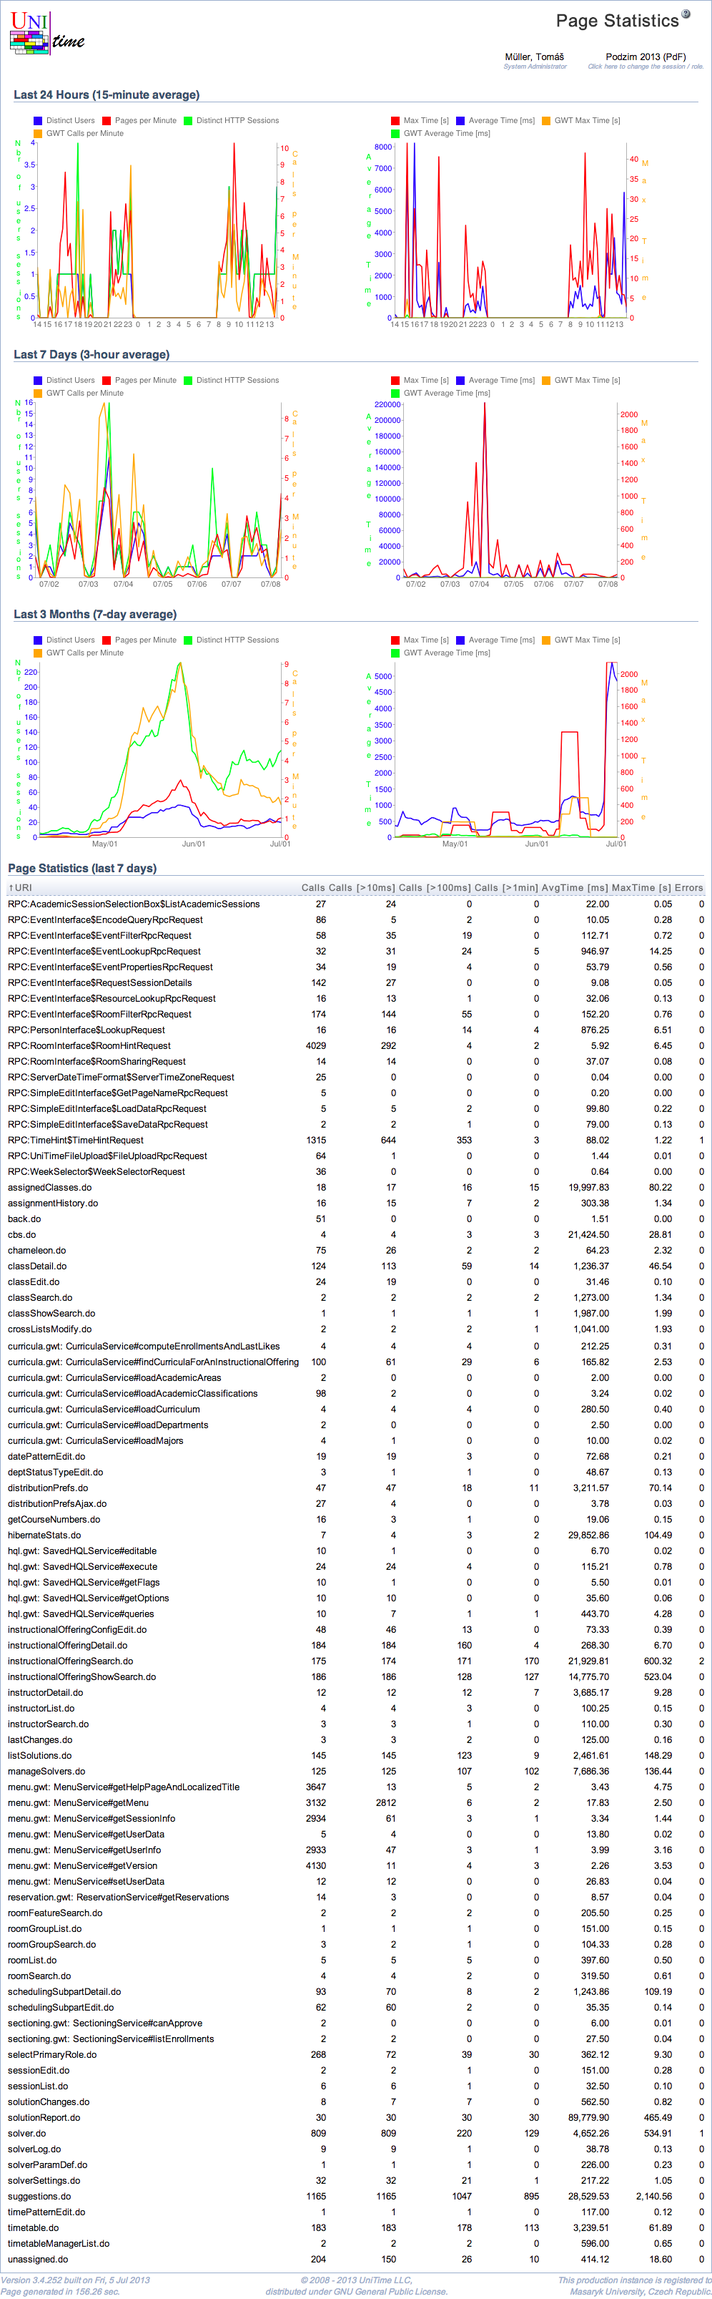
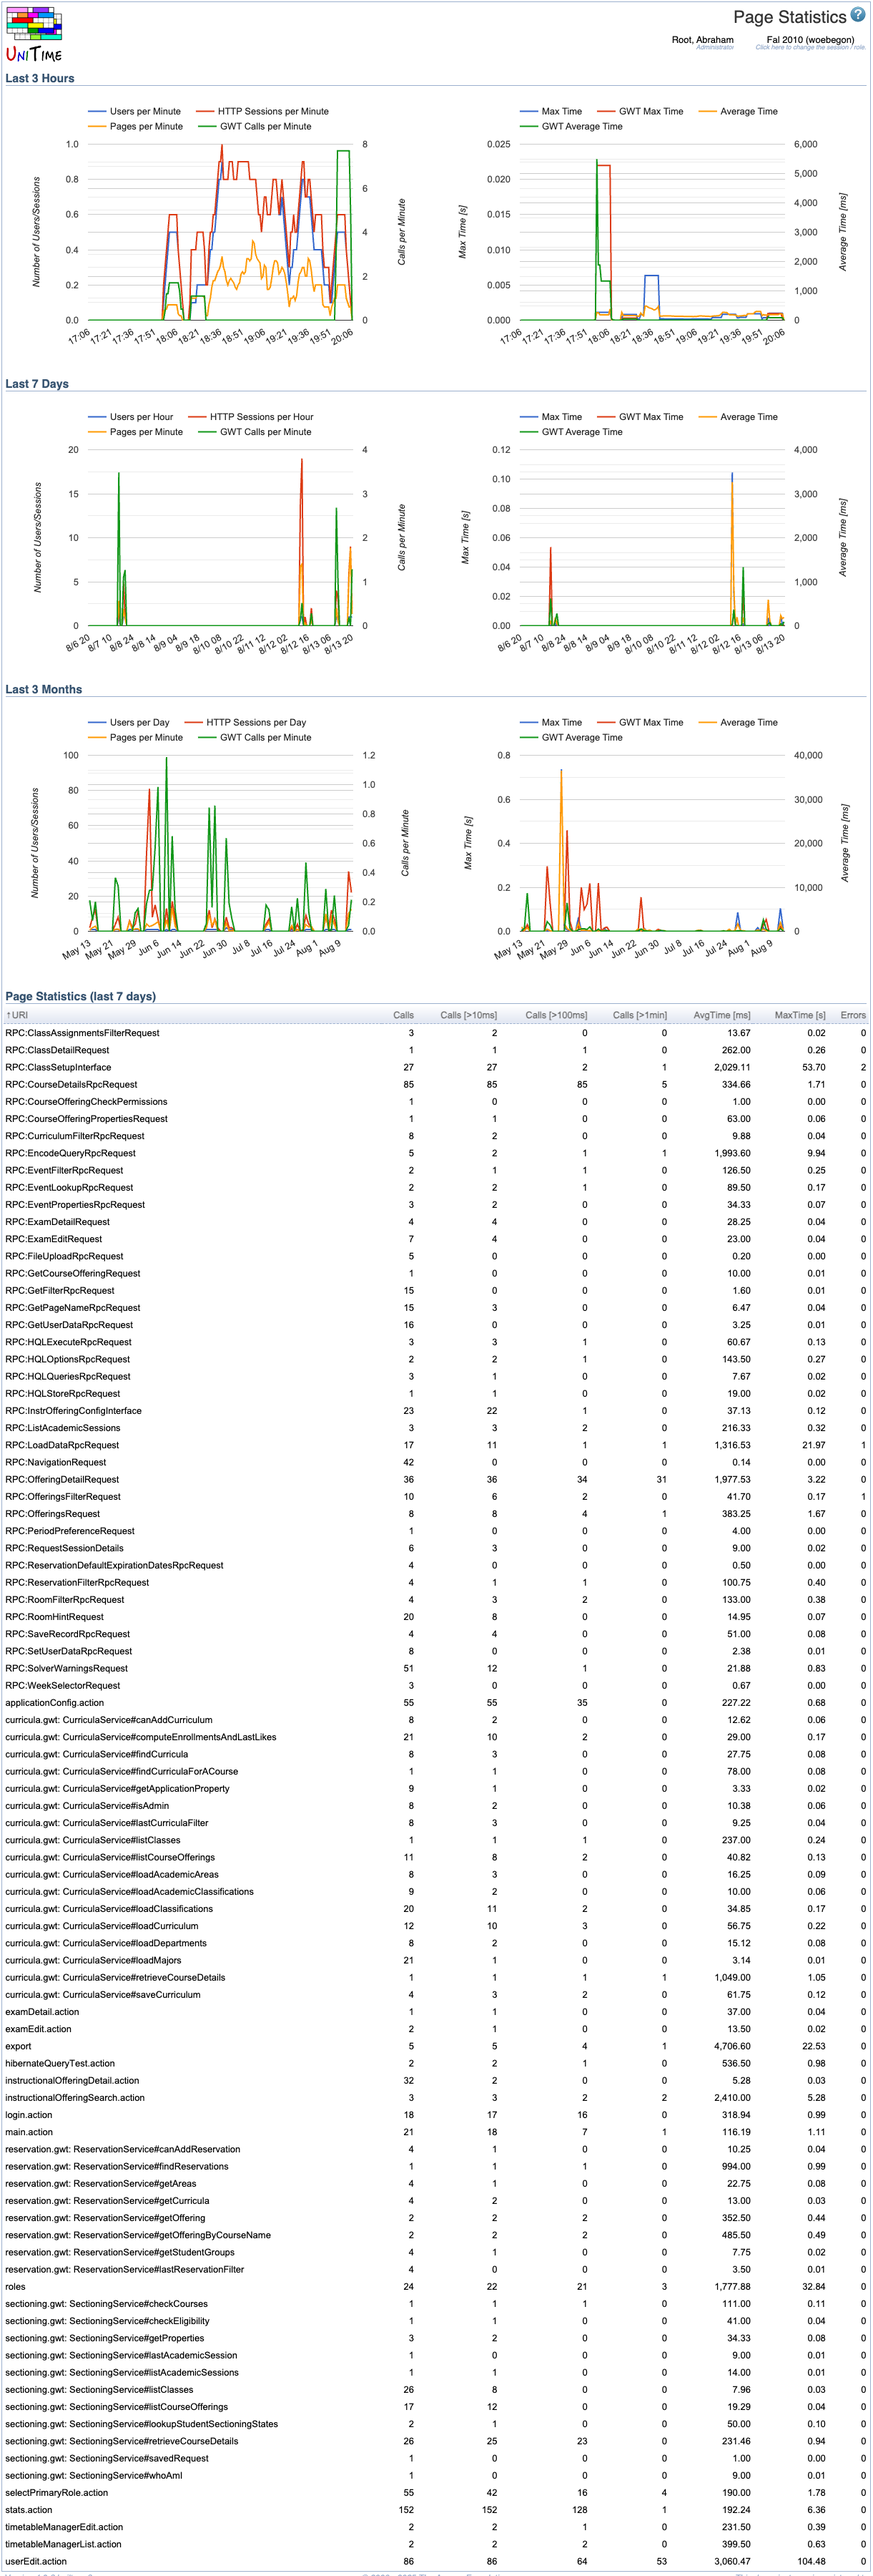
Page Statistics
- new screenshots, updated documentation, text cleanup

diff --git a/page-statistics.md b/page-statistics.md
@@ -6,22 +6,16 @@ title: Page Statistics
 
 ## Screen Description
 
-The Page Statistics page provide some basic information about usage of UniTime pages during the past 24 hours, 7 days, and 3 months. It also provides some basic information about each page and GWT/RPC asynchronous calls.
+The Page Statistics page provide some basic information about usage of UniTime pages during the past 3 hours, 7 days, and 3 months. It also provides some basic information about each page and GWT/RPC asynchronous calls.
 
 ![Page Statistics](images/page-statistics-1.png){:class='screenshot'}
 
-The page is based on the [QueryLog]( https://github.com/UniTime/unitime/tree/master/JavaSource/QueryLog.hbm.xml). It may take a bit of time (usually a couple of minutes) for the charts to be computed and the page to appear.
+The page is based on the [QueryLog]( https://github.com/UniTime/unitime/tree/master/JavaSource/QueryLog.hbm.xml). It may take a bit of time (not more than a minute or two) for the charts to be computed and the page to appear.
 
 ## Details
 
-For each time frame (last 24 hours, 7 days, and last 3 months), two charts are computed. Each point (horizontally) represents a time window of 15 minutes, 3 hours, 7 days respectively. The chart on the left (see the example below) contains the average number of users, the average number of distinct HTTP sessions (with the vertical axe on the left), the average number of displayed pages, and the average number of GWT calls per minute (with the vertical axe on the right).
+For each time frame (last 3 hours, 7 days, and last 3 months), two charts are computed. Each point (horizontally) represents a time window of one minute, one hour, and one day respectively. The charts on the left contains the average number of users, the average number of distinct HTTP sessions (with the vertical axe on the left), the average number of displayed pages, and the average number of GWT calls per minute (with the vertical axe on the right).
 
-
-![Page Statistics](images/page-statistics-2.png){:class='screenshot'}
-
-The chart on the right (see the example below) contains maximal and average time that was need to generate a page, and maximal and average time needed for a GWT/RPC asynchronous call. The average times have the vertical axe on the left (in milliseconds) and the maximal times have the axe on the right size (in seconds).
-
-
-![Page Statistics](images/page-statistics-3.png){:class='screenshot'}
+The charts on the right contains maximal and average time that was need to generate a page, and maximal and average time needed for a GWT/RPC asynchronous call. The average times have the vertical axe on the right (in milliseconds) and the maximal times have the axe on the left size (in seconds).
 
 Below the charts, there is the Page Statistics table. It is computed from the queries during the last 7 days. For each page and/or GWT/RPC asynchronous call, it contains how many times it was executed; how many times it was executed and the execution took more than 10 ms, 100 ms, and 1 minute respectively. Average and maximal execution times are also provided. There is also the number of cases when the execution ended up in with an exception. The Page Statistics table can be ordered by any column. To do that, click on the particular column.
